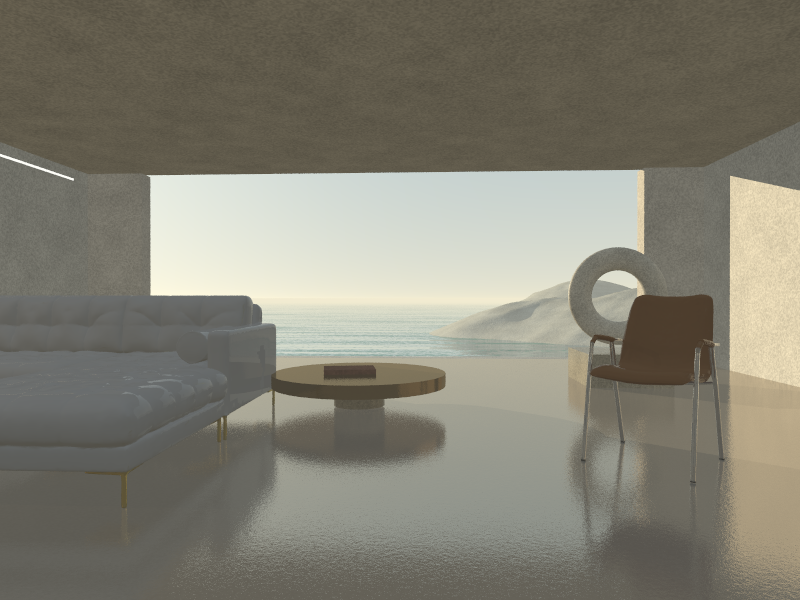
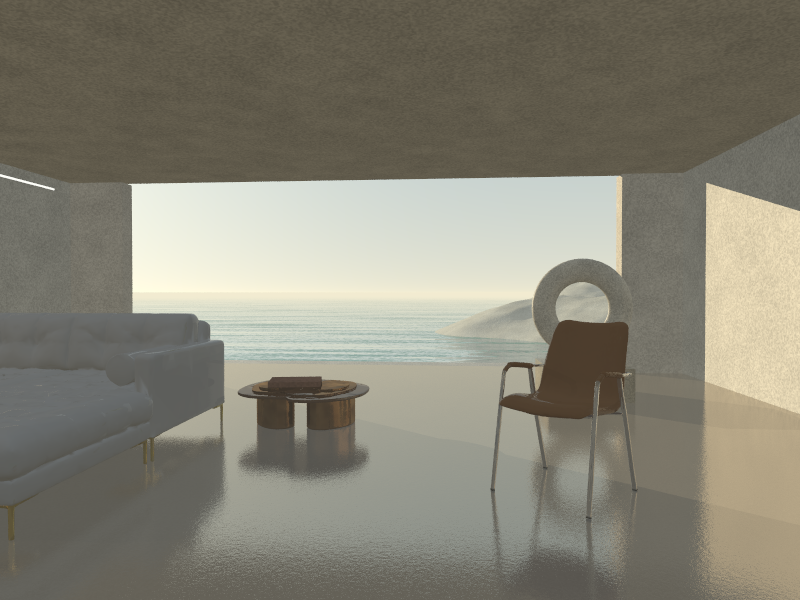
Add The Quiet Coast as a restorable furnished scene preset

diff --git a/index.html b/index.html
@@ -180,6 +180,7 @@ import { TransformControls } from 'three/addons/controls/TransformControls.js';
 import { computeBoundsTree, disposeBoundsTree, acceleratedRaycast } from 'three-mesh-bvh';
 import { createTracer, KIND, MOON_GLSL, MOON_R } from './tracer.js';
 import { startPixelEmoji } from './emoji.js';
+import { SAVED_SCENES, loadSavedScene } from './saved-scenes.js';
 import { getFurniMeshCatalogue, getModelCatalogues, isIndexedModel, getIndexedModel } from './model-catalog.js';
 
 // fast click-picking on the big Poly Haven meshes
@@ -1115,6 +1116,7 @@ function generateDoc(seedV, palName, terrain, opts = {}) {
 // the horizon, near-monochrome skies, things half sunk, tiny things in vast space, giant things up close.
 const PI = Math.PI;
 const SCENES = {
+  ...SAVED_SCENES,
   emptyfloor: { label: 'Empty scene with floor', pal: 'algebra', time: 'day', t: { land: false, water: false, floor: 'tiles', floorTile: 6 },
     build({ d }) {
       d.camera = { pos: [24, 18, 32], target: [0, 4, 0], fov: 50 };
@@ -1489,6 +1491,7 @@ function blit() { renderer.setRenderTarget(null); renderer.clear(); renderer.ren
 // ---------- editor: orbit camera, picking, move/rotate/scale gizmo ----------
 const $ = id => document.getElementById(id);
 const msg = $('msg');
+let sceneBuild = 0;
 let mode = 'edit', viewMode = 'solid', dirty = true, sel = null;
 const overlay = new THREE.Scene();
 const orbit = new OrbitControls(camera, canvas);
@@ -1521,6 +1524,7 @@ function applyCamera() {
   orbit.update();
 }
 function applyDoc() {
+  sceneBuild++; // Opening a document cancels any older preset still loading.
   doc.terrain = terrainSettings(doc.terrain);
   if (doc && doc.terrain && !doc.baseTerrain) doc.baseTerrain = JSON.parse(JSON.stringify(doc.terrain));   // the world's preset, for Reset
   select(null);
@@ -2307,15 +2311,28 @@ const WYd = d => (d.terrain && d.terrain.waterY) || 0;
 // ---------- Start panel: one page, live, undoable (replaces the step-by-step wizard) ----------
 let startLookOpen = false;
 const start = { world: null, pal: 'desert', time: 'day', weather: 'clear', layout: 'random', seed: 1 };
-function startBuild() {   // regenerate the whole scene from the Start choices
-  const W = SCENES[start.world];
-  if (W) { const d = generateScene(start.world, start.seed); if (start.lookTouched) applyLook(d, start); doc = d; }
-  else {
-    const L = LANDSCAPES[start.world];
-    const d = generateDoc(start.seed, start.pal, { ...TERRAIN_DEFAULTS, ...L.t }, { layout: start.layout, base: L.base, layoutSeed: start.layoutSeed });
-    applyLook(d, start); doc = d;
+async function startBuild() {
+  const ticket = ++sceneBuild, choices = { ...start }, W = SCENES[choices.world];
+  try {
+    let d;
+    if (W?.file) {
+      msg.textContent = `Loading ${W.label} and its furniture…`;
+      d = await loadSavedScene(choices.world);
+    } else if (W) d = generateScene(choices.world, choices.seed);
+    else {
+      const L = LANDSCAPES[choices.world];
+      d = generateDoc(choices.seed, choices.pal, { ...TERRAIN_DEFAULTS, ...L.t }, { layout: choices.layout, base: L.base, layoutSeed: choices.layoutSeed });
+    }
+    if (!W || choices.lookTouched) applyLook(d, choices);
+    await loadDocModels(d);
+    if (ticket !== sceneBuild) return false;
+    doc = d; applyDoc(); commit(); renderStart();
+    msg.textContent = `Scene: ${W?.label || LANDSCAPES[choices.world].label}`;
+    return true;
+  } catch (error) {
+    if (ticket === sceneBuild) msg.textContent = `Couldn't load this scene: ${error.message}`;
+    return false;
   }
-  applyDoc(); commit();
 }
 function renderStart() {
   const el = $('start'); if (!el) return;
@@ -2333,8 +2350,9 @@ function renderStart() {
     <div class="row"><label for="startTime">Time</label><select id="startTime" data-s="time">${Object.entries(LOOK_TIMES).map(([k,v]) => `<option value="${k}" ${start.time === k ? 'selected' : ''}>${v}</option>`).join('')}</select></div>
     <div class="row"><label for="startWeather">Weather</label><select id="startWeather" data-s="weather">${Object.entries(LOOK_WEATHER).map(([k,v]) => `<option value="${k}" ${start.weather === k ? 'selected' : ''}>${v}</option>`).join('')}</select></div>
     </details><div class="section-label">Arrangement</div>
-    ${start.world === 'emptyfloor' ? '<div class="hint">An infinite tiled floor. Use Add to place your first object.</div>' : isScene ? `<div class="hint">${W.label} has its own composition.</div>` : `<select data-s="layout">${['random', 'Centrepiece', 'Colonnade', 'Rule of thirds', 'Stone circle', 'Still life', 'Empty'].map(k => `<option value="${k}" ${start.layout === k ? 'selected' : ''}>${k === 'random' ? 'Any (random)' : k}</option>`).join('')}</select>`}
-    ${start.world === 'emptyfloor' ? '' : '<button data-s="reroll" style="width:100%;margin-top:4px" title="Keep this scene type and look; try another arrangement">🎲 Another arrangement</button>'}
+    ${start.world === 'emptyfloor' ? '<div class="hint">An infinite tiled floor. Use Add to place your first object.</div>' : isScene ? `<div class="hint">${W.description || `${W.label} has its own composition.`}</div>` : `<select data-s="layout">${['random', 'Centrepiece', 'Colonnade', 'Rule of thirds', 'Stone circle', 'Still life', 'Empty'].map(k => `<option value="${k}" ${start.layout === k ? 'selected' : ''}>${k === 'random' ? 'Any (random)' : k}</option>`).join('')}</select>`}
+    ${W.file ? '<button data-s="restore" style="width:100%;margin-top:4px">Restore saved scene</button>' : ''}
+    ${start.world === 'emptyfloor' || W.file ? '' : '<button data-s="reroll" style="width:100%;margin-top:4px" title="Keep this scene type and look; try another arrangement">🎲 Another arrangement</button>'}
     <button data-s="surprise" style="width:100%;margin-top:12px" title="Choose a random scene and arrangement">🎲 Surprise me</button>`;
 }
 $('start').addEventListener('toggle', e => { if (e.target.id === 'startLook') startLookOpen = e.target.open; }, true);
@@ -2343,7 +2361,8 @@ document.addEventListener('click', e => {
   const b = e.target.closest('#start button[data-s]'); if (!b || !doc) return;
   const g = b.dataset.s, v = b.dataset.v;
   if (mode !== 'edit') setMode('edit');
-  if (g === 'reroll') {   // only the arrangement for landscapes; art-directed scenes are one composition, so they reroll whole
+  if (g === 'restore') { start.lookTouched = false; startBuild(); }
+  else if (g === 'reroll') {   // only the arrangement for landscapes; art-directed scenes are one composition, so they reroll whole
     if (SCENES[start.world]) start.seed = (Math.random() * 1e9) | 0; else start.layoutSeed = (Math.random() * 1e9) | 0;
     startBuild();
   }
@@ -2669,16 +2688,17 @@ modelKeys.forEach(k => modelLoads[k].finally(() => {
 }));
 assetsReady.then(() => {
   loadStep('Building the landscape…', 0.85);
-  setTimeout(() => {   // let the message paint before the heavy terrain build
+  setTimeout(async () => {   // let the message paint before the heavy terrain build
     doc = generateDoc(1234, 'desert');
     applyDoc();
     $('win').classList.remove('loading');
     frame();
     loadStep('Ready', 1);
     setTimeout(() => $('loader').remove(), 250);   // after the first frame is on screen
-    const sk = Object.keys(SCENES); start.world = sk[(Math.random() * sk.length) | 0]; start.seed = (Math.random() * 1e9) | 0;
+    const requestedScene = new URLSearchParams(location.search).get('scene');
+    const sk = Object.keys(SCENES); start.world = Object.hasOwn(SCENES, requestedScene) ? requestedScene : sk[(Math.random() * sk.length) | 0]; start.seed = (Math.random() * 1e9) | 0;
     start.pal = SCENES[start.world].pal; if (SCENES[start.world].time) start.time = SCENES[start.world].time;
-    startBuild(); resetHistory(); setPanel('start');   // land on a finished scene with the Start panel open
+    await startBuild(); resetHistory(); setPanel('start');   // land on a finished scene with the Start panel open
     // build picking structures for the big models in the background so the first click is quick
     setTimeout(() => Object.values(models).forEach(ensureBVH), 500);
   }, 30);

diff --git a/saved-scenes.js b/saved-scenes.js
@@ -1,0 +1,19 @@
+// Saved compositions share the same scene format as File → Open.
+export const SAVED_SCENES = {
+  quietcoast: {
+    label: 'The Quiet Coast', pal: 'poolhall', time: 'day',
+    file: './scenes/the-quiet-coast.tsc',
+    description: 'A quiet island home: pale stone, warm wood, and an open wall facing the sea.',
+  },
+};
+
+export async function loadSavedScene(key, fetchScene = fetch) {
+  const preset = SAVED_SCENES[key];
+  if (!preset) throw new Error('Unknown saved scene');
+  const response = await fetchScene(new URL(preset.file, import.meta.url));
+  if (!response.ok) throw new Error('Could not load the saved scene');
+  const scene = await response.json();
+  if (!Array.isArray(scene.objects) || !scene.camera || !scene.sky || !scene.terrain)
+    throw new Error('Invalid saved scene');
+  return { ...scene, scene: key };
+}

diff --git a/README.md b/README.md
@@ -29,9 +29,10 @@ npm test
 
 ## Coastal house scene
 
-Open [The Quiet Coast](scenes/the-quiet-coast.tsc) through File → Open for a
+Choose **New Scene → The Quiet Coast** (or [open the preset](http://localhost:8765/?scene=quietcoast)) for a
 minimal coastal interior with detailed FurniMesh furniture. The original geometric study is
-also saved in `scenes/the-quiet-coast-original.tsc`.
+also saved in `scenes/the-quiet-coast-original.tsc`. **Restore saved scene** returns
+the furnished preset to its saved composition and camera.
 
 ## Adding detailed furniture
 
